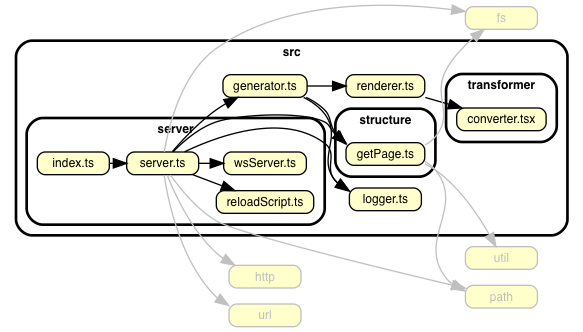
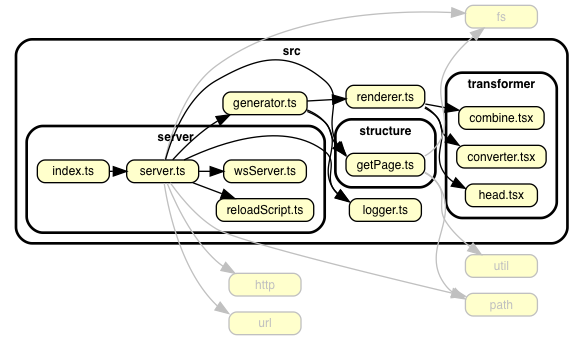
feat(head): add html head parameter

diff --git a/src/renderer.ts b/src/renderer.ts
@@ -1,16 +1,22 @@
 import { Options } from "@rocu/cli";
 import { PageElement, RenderedStaticPage, Source } from "@rocu/page";
-import { renderToStaticMarkup } from "react-dom/server";
+import { combine } from "./transformer/combine";
 import { transformRawStringToHtml } from "./transformer/converter";
+import { createHeadContent } from "./transformer/head";
 
 const renderPage = (page: PageElement): RenderedStaticPage => {
   const converter = transformRawStringToHtml({
     customComponents: {},
     props: {},
   });
+  const bodyContent = converter(page.content);
+  const headContent = createHeadContent(page.data);
   return {
     name: page.name,
-    html: renderToStaticMarkup(converter(page.raw)),
+    html: combine({
+      head: headContent,
+      body: bodyContent,
+    }),
   };
 };
 

diff --git a/src/transformer/__tests__/converter.test.tsx b/src/transformer/__tests__/converter.test.tsx
@@ -18,7 +18,7 @@ highlight
 `;
 
   const rawResult: string = fs.readFileSync(path.join(__dirname, "./expectedResult.js"), { encoding: "utf8" });
-  const resultTest = "<div><h1>Hello World</h1><p>body message</p><h2>h2 title</h2><p>highlight</p></div>";
+  const resultTest = "<body><div><h1>Hello World</h1><p>body message</p><h2>h2 title</h2><p>highlight</p></div></body>";
 
   test("applyMarkdownTextToMdxtag", () => {
     const raw = removeAllNewLine(applyMarkdownTextToMdxTag(templateText));

diff --git a/src/transformer/combine.tsx b/src/transformer/combine.tsx
@@ -1,0 +1,18 @@
+import * as React from "react";
+import { renderToStaticMarkup } from "react-dom/server";
+
+export interface ElementMap {
+  head: React.ReactElement<any>;
+  body: React.ReactElement<any>;
+}
+
+export const combine = (elements: ElementMap): string => {
+  const page = (
+    <html>
+      {elements.head}
+      {elements.body}
+    </html>
+  );
+
+  return renderToStaticMarkup(page);
+};

diff --git a/src/transformer/head.tsx b/src/transformer/head.tsx
@@ -1,0 +1,11 @@
+import { PageElement } from "@rocu/page";
+import * as React from "react";
+
+export const createHeadContent = (htmlMetaData: PageElement["data"]): React.ReactElement<any> => {
+  return (
+    <head>
+      <title>{htmlMetaData.title}</title>
+      {htmlMetaData.description && <meta name="description" content={htmlMetaData.description} />}
+    </head>
+  );
+};

diff --git a/src/transformer/converter.tsx b/src/transformer/converter.tsx
@@ -40,5 +40,5 @@ export const transformRawStringToHtml = <T extends keyof JSX.IntrinsicElements>(
   const mainLogic = `${code} return React.createElement(MDXContent, { components, ...props });`;
   const fn = new Function("React", ...keys, mainLogic);
   const resultComponent = fn(React, ...values);
-  return resultComponent;
+  return <body>{resultComponent}</body>;
 };
